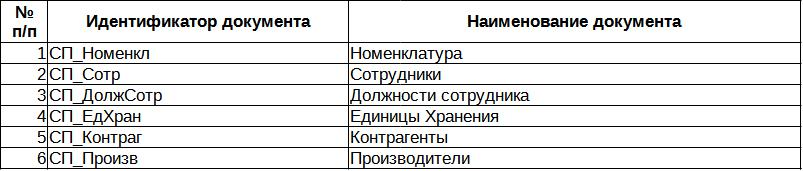
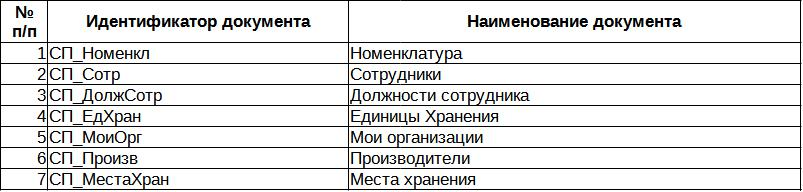
Galanin_Pavel : Added CP_MestaXran

Changed region(s): [[0.0, 0.0, 1.0, 0.9942], [0.0934, 0.0585, 0.4047, 0.1754], [0.5604, 0.0877, 0.8717, 0.1754]]

diff --git a/report/6_курсовая_ПО-4_Галанин_ПрилА.tex b/report/6_курсовая_ПО-4_Галанин_ПрилА.tex
@@ -60,6 +60,7 @@
         \item Эталон справочного документа <<Мои организации>> - см. рис.~\ref{fig:CP_MoiOrg_etalon}
         \item Эталон справочного документа <<Сотрудники>> - см. рис.~\ref{fig:CP_Sotrudniki_etalon}
         \item Эталон справочного документа <<Должности сотрудника>> - см. рис.~\ref{fig:CP_DoljSotr_etalon}
+        \item Эталон справочного документа <<Места хранения>> - см. рис.~\ref{fig:CP_MestaXran_etalon}
         \item Эталон оперативного документа <<Инвентаризационная опись>> - см. рис.~\ref{fig:OP_InvenOpis_etalon}
         \item Эталон оперативного документа <<Приказ о создании инвентаризационной комиссии>> - см. рис.~\ref{fig:OP_PrikazSozdKomInvest_etalon}
     \end{itemize}
@@ -110,6 +111,14 @@
             {_docs/СП_ДолжнСотр_эталон.jpg}
         \caption{Эталон справочника <<Должности сотрудника>>}
         \label{fig:CP_DoljSotr_etalon}
+    \end{figure}
+
+    \begin{figure}[!h]
+        \centering
+        \includegraphics[]
+            {_docs/СП_МестаХран_эталон.jpg}
+        \caption{Эталон справочника <<Места хранения>>}
+        \label{fig:CP_MestaXran_etalon}
     \end{figure}
 
     \begin{figure}[!h]

diff --git a/report/6_курсовая_ПО-4_Галанин_ПЗ.tex b/report/6_курсовая_ПО-4_Галанин_ПЗ.tex
@@ -309,6 +309,29 @@
     \end{figure}
 
     \newpage
+    \subsubsection{Справочный документ <<Места хранения>>}
+
+    Справочник <<Места хранения>> - содержит перечисление адреса с номером склада.
+    Документ представлен в виде словаря данных (рисунок~\ref{fig:CP_MestaXran_tipi})
+    и макета (рисунок~\ref{fig:CP_MestaXran_maket}).
+
+    \begin{figure}[!h]
+        \centering
+        \includegraphics[width=14cm]
+            {_docs/СП_МестаХран_типы.jpg}
+        \caption{Словарь данных справочника <<Места хранения>>}
+        \label{fig:CP_MestaXran_tipi}
+    \end{figure}
+
+    \begin{figure}[!h]
+        \centering
+        \includegraphics[]
+            {_docs/СП_МестаХран_макет.jpg}
+        \caption{Макет справочника <<Места хранения>>}
+        \label{fig:CP_MestaXran_maket}
+    \end{figure}
+
+    \newpage
     \subsubsection{Оперативный документ <<Инвентаризационная опись>>}
 
     Оперативный документ <<Инвентаризационная опись>>
